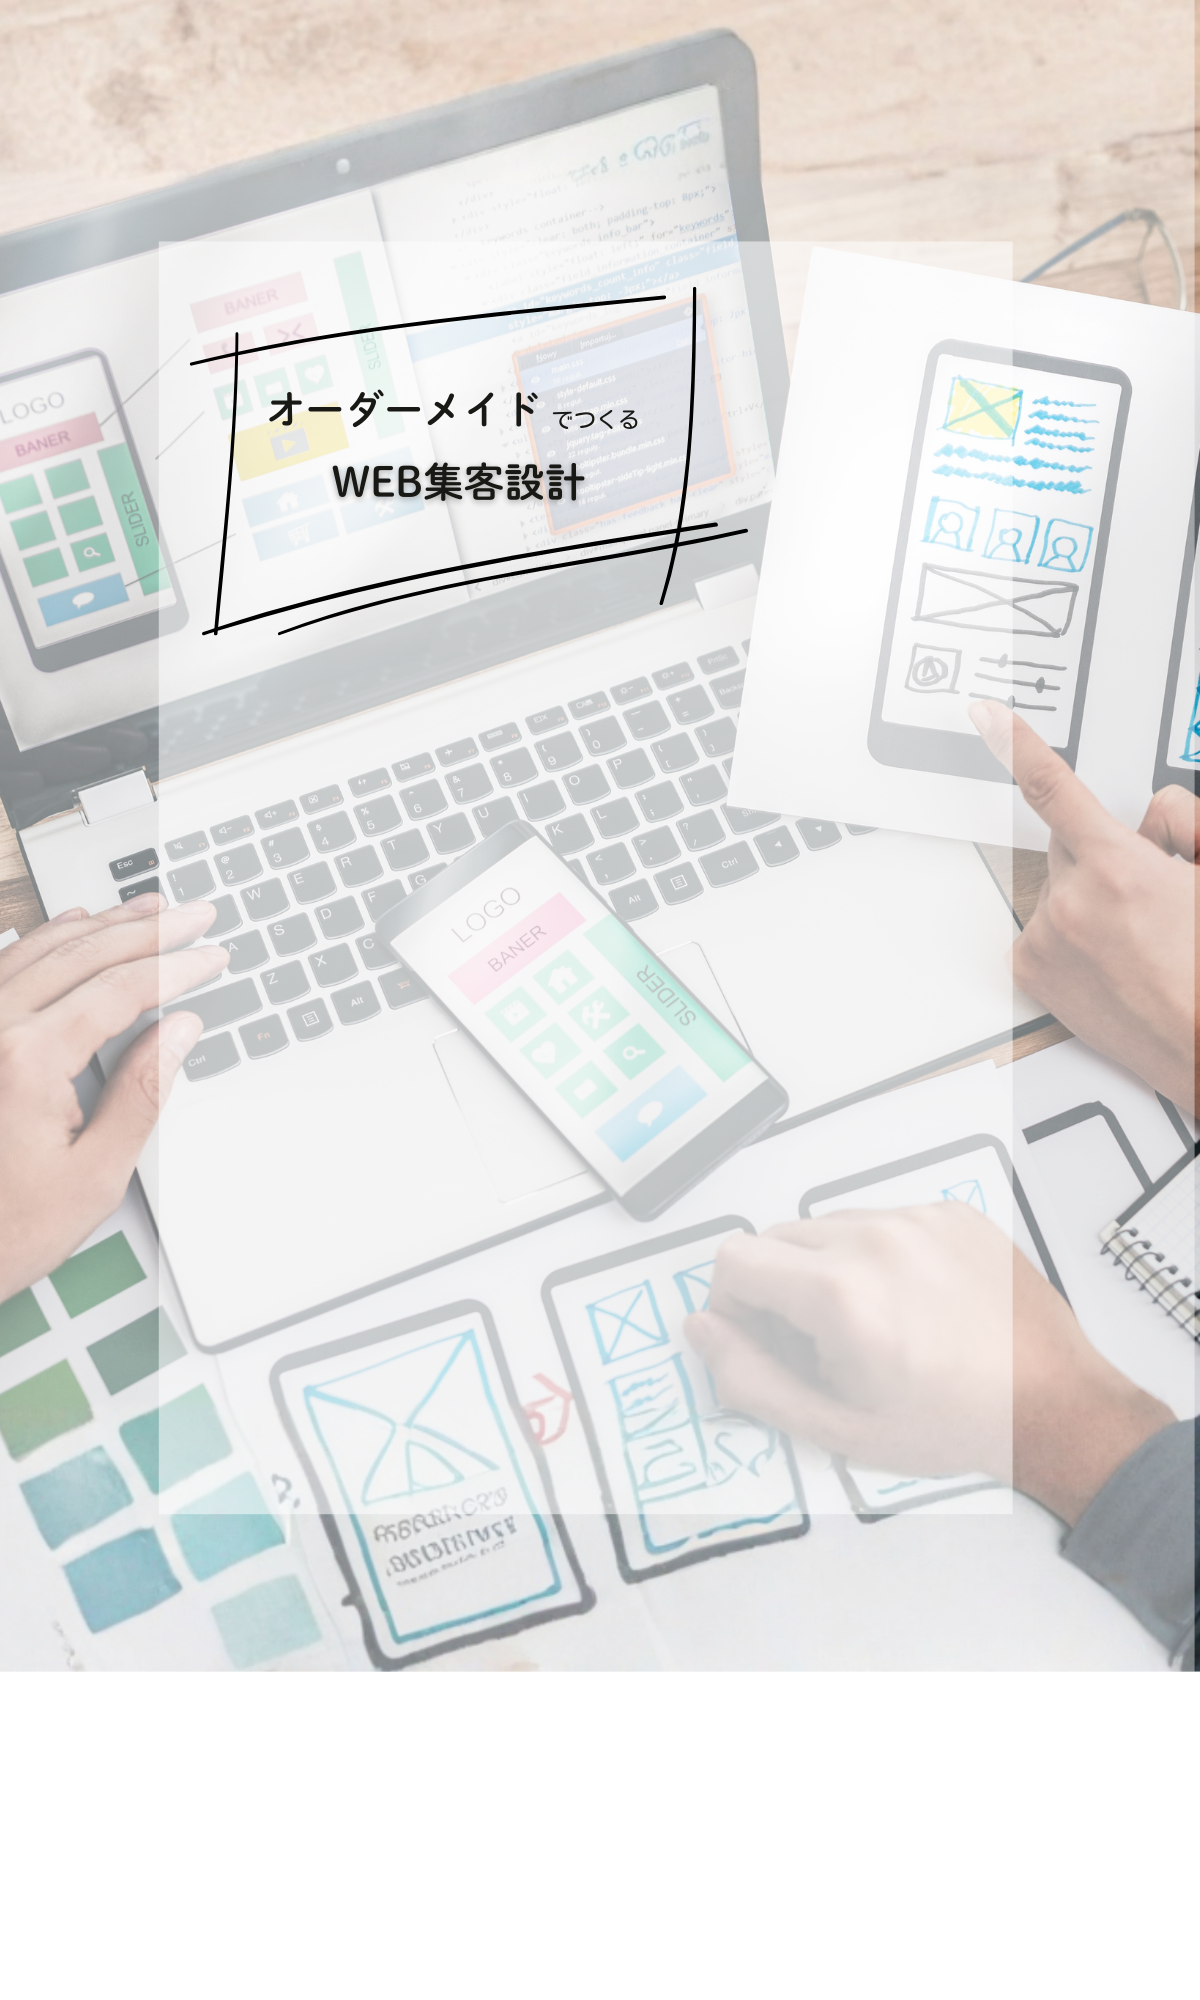
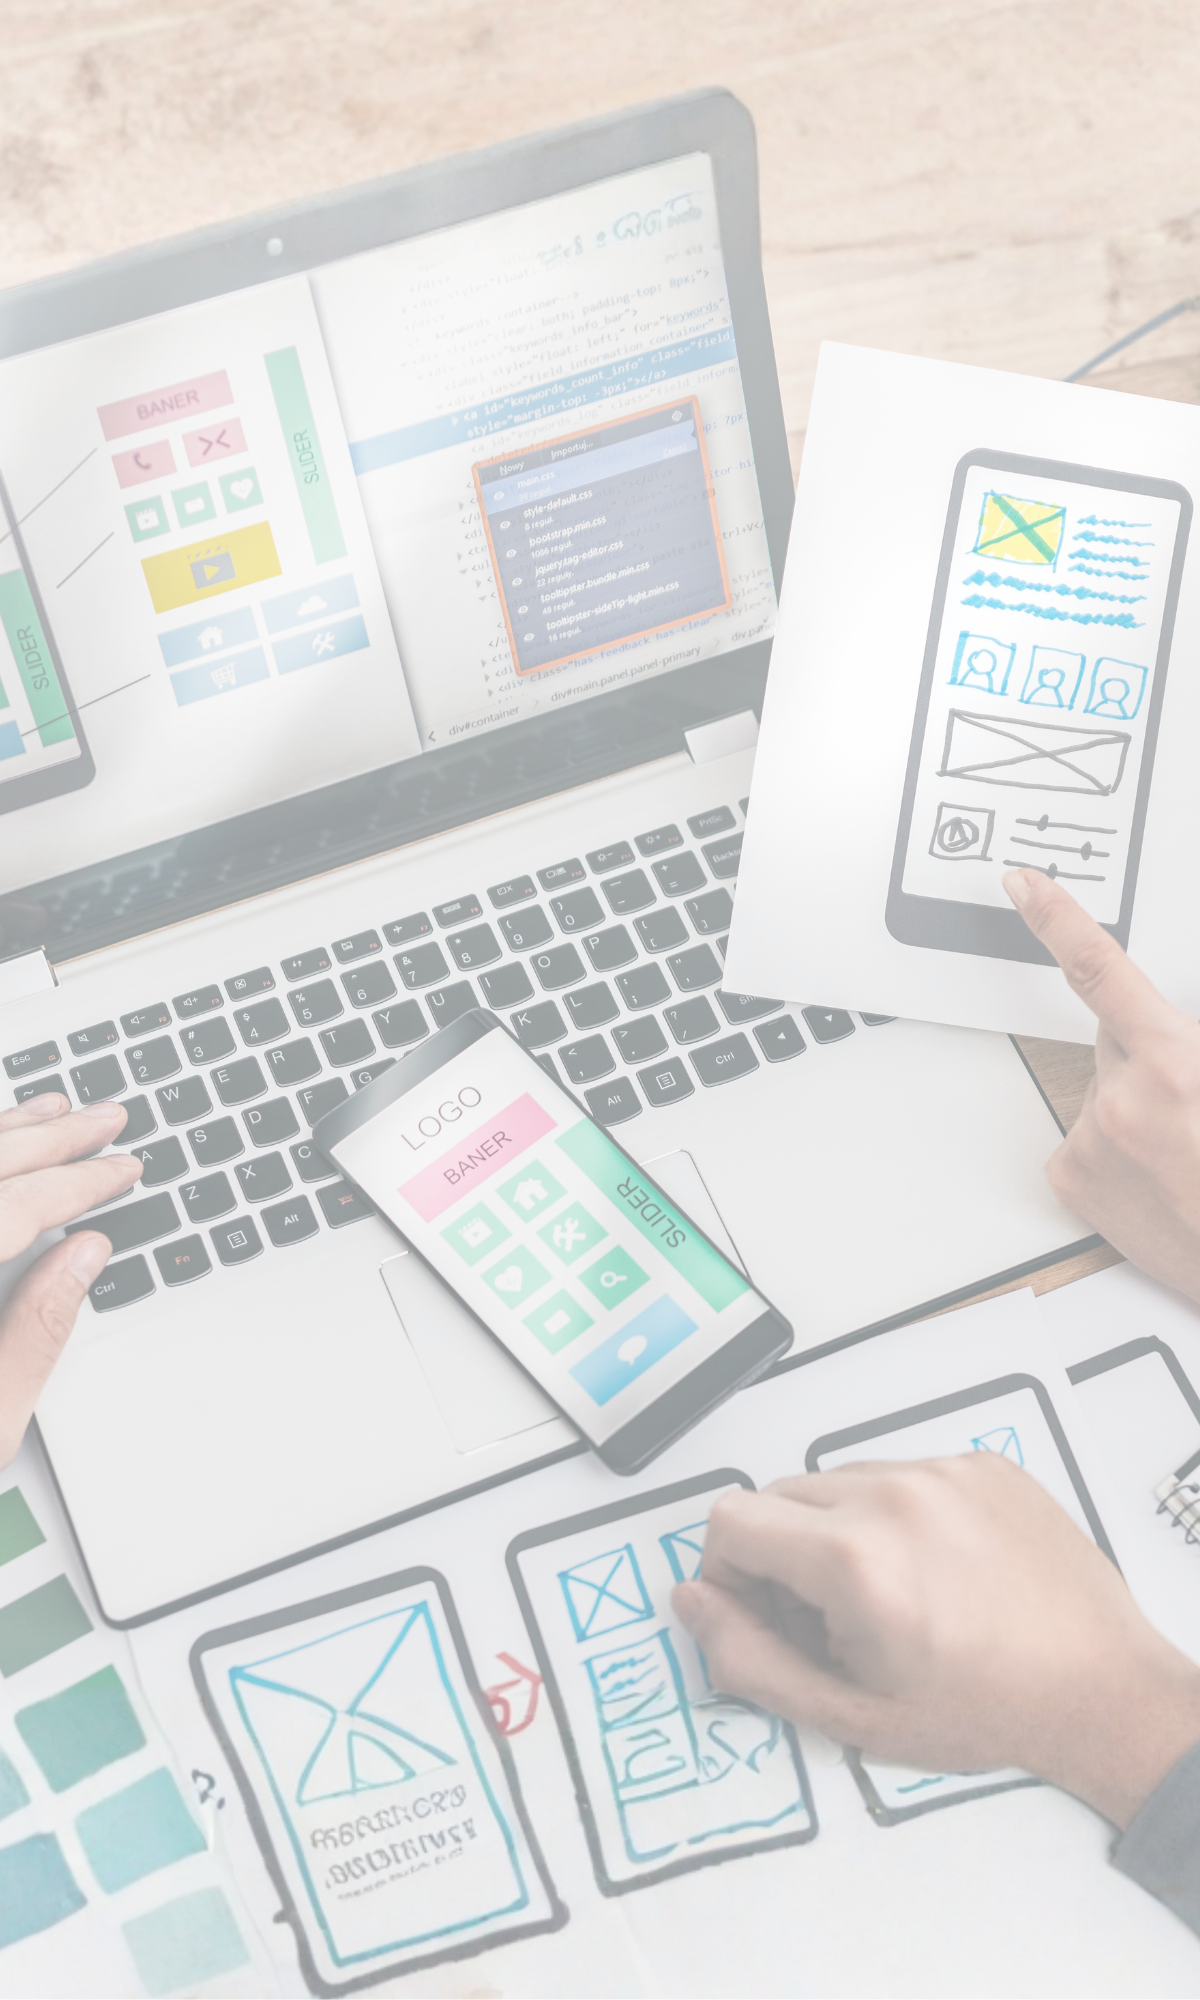
94

diff --git a/css/responsive.css b/css/responsive.css
@@ -4,13 +4,13 @@
   position: absolute;
   inset: 0;
       background-attachment: fixed;
-
   background-image: url(../images/back/kiiro.jpg);
   background-size:cover;
   background-position:5rem;
   opacity: 0.5;
   z-index: -1;
 }
+
 .menu image{
     opacity: 0.15;
 }
@@ -24,6 +24,14 @@
   height: 100%;
   margin: 0 auto;
   font-size: 15px;
+}
+
+  .price-contener h2{
+    text-align: right;
+line-height: 1;
+  font-size: 30px;
+  font-weight: 800;
+  text-shadow: 1px 1px 2px rgba(140, 140, 140, 0.5);
 }
 
 }
@@ -322,8 +330,8 @@ border: 2px solid #ccc;
 border-radius: 10px;
 }
 .price-contener{
-  padding-right: 10%;
-  transform: translateY(200px);
+  padding-left: 100px;
+  transform: translateY(250px);
   justify-content: center;
 }
 
@@ -335,13 +343,17 @@ line-height: 1.3;
   text-shadow: 1px 1px 2px rgba(0, 0, 0, 0.5);
 }
 .hero2{
-  margin-top: -90px;
+  margin-top: -110px;
     width: auto;
     height: 100vh;
     background-image:url(../images/back/price.png);
     background-size: cover;
     text-align: right;
     padding-right: 20px;
+}
+
+#hero2back-parts{
+  display: none;
 }
 .sankaku{
   width: 60%;

diff --git a/photo.html b/photo.html
@@ -70,8 +70,8 @@
       <h3>写真や動画が大切な理由</h3>
 
       <p>
-        写真や動画は、文章だけでは伝わりにくい商品の魅力やサービスの雰囲気を、
-        直感的に伝えてくれます。特に動画は、写真では表現しづらい動きや空気感まで届けることができます。
+        写真は、文章だけでは伝わりにくい商品の魅力やサービスの雰囲気を、
+        直感的に伝えてくれます。
       </p>
 
       <p>
@@ -103,7 +103,7 @@
 </a>
  <p class="photo-lead">
   ホームページやパンフレットの印象は、写真で大きく変わります。
-  どーぷWebでは、サイトや販促物に合った写真撮影もあわせてご相談いただけます。
+  どーぷWebでは、サイトや販促物に使用する写真撮影もあわせてご相談いただけます。
  </p>
 <a href="images/photo/p3.jpeg" class="lightbox">
 <img src="images/photo/p3.jpeg" alt="夕焼けと鉄塔">

diff --git a/css/price.css b/css/price.css
@@ -1,11 +1,16 @@
 .hero2{
   height: 100vh;
-  background-image: url(../images/back/pricesp.png);
+  background-image: url(../images/back/price2.png);
   background-size: cover;
   background-repeat: no-repeat;
   background-position: center;
   text-align: right;
   padding: 0 20px;
+}
+
+#hero2back-parts{
+  padding-top: 50px;
+
 }
 
 .price-contener{
@@ -21,13 +26,6 @@
   text-shadow: 1px 1px 2px rgba(156, 149, 149, 0.5);
 }
 
-.price-comment{
-  max-width: 460px;
-  margin:0 auto;
-  font-size: 15px;
-  line-height: 1.8;
-  padding: 10px 0;
-}
 
 .new-lead{
   margin: 60px auto;

diff --git a/css/style.css b/css/style.css
@@ -787,7 +787,7 @@ margin-top: 10px;
     color: #faf29b;
     font-size: 3rem;
     text-transform: uppercase;
-    content: '制作実績';
+    content: '制作事例';
     z-index: -1;
 }
 
